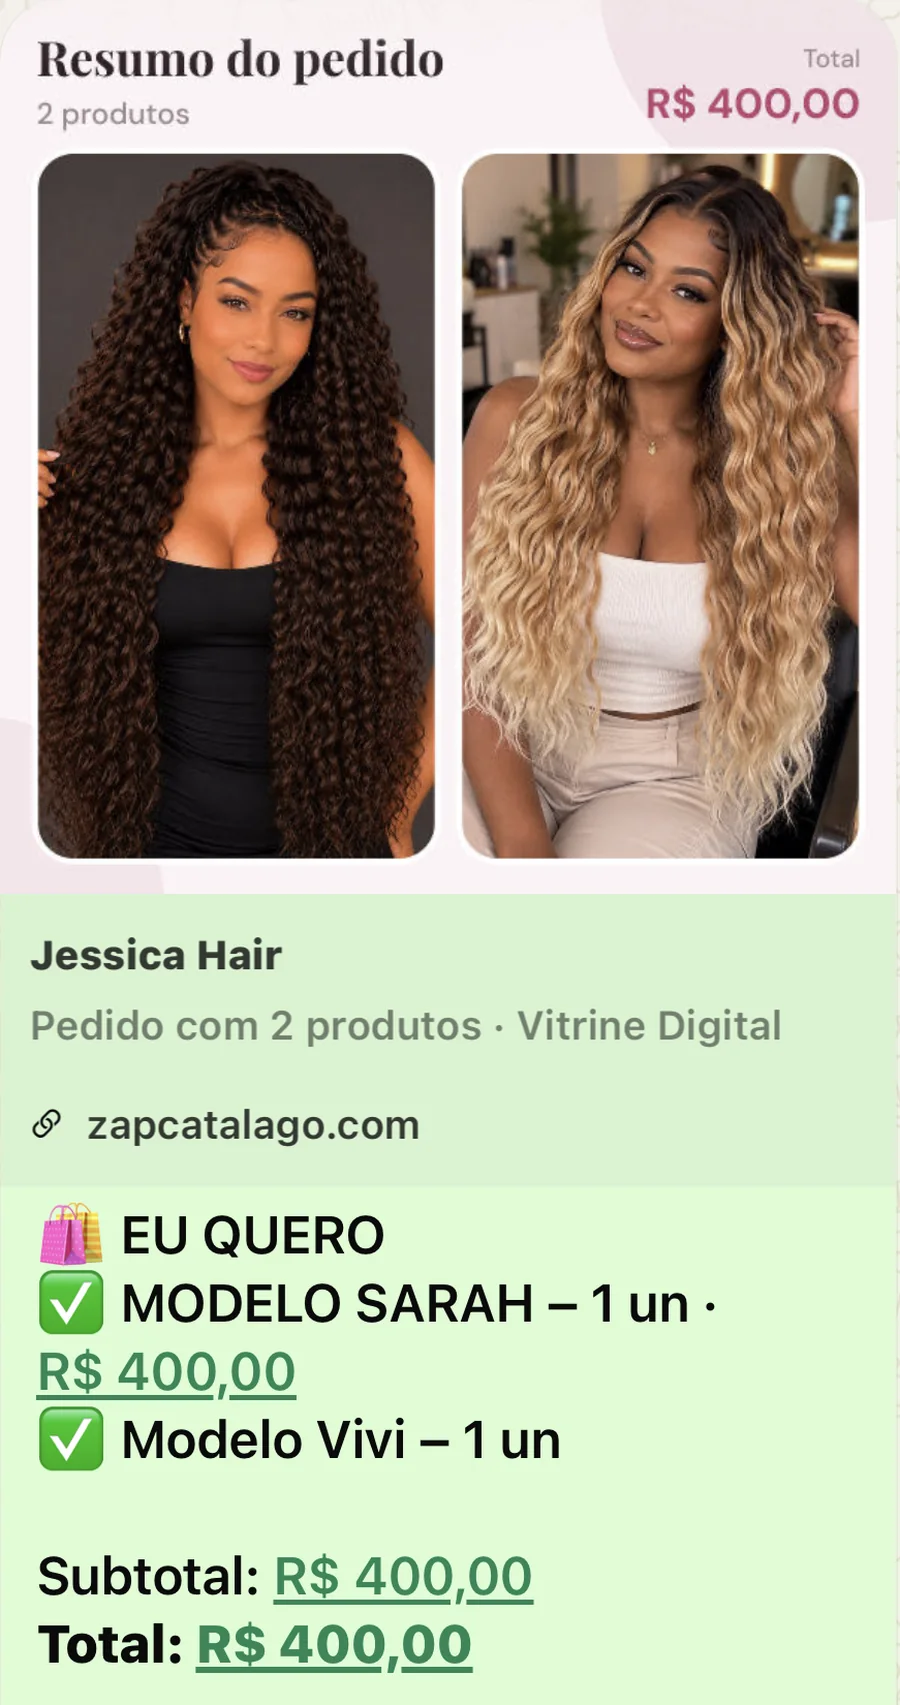
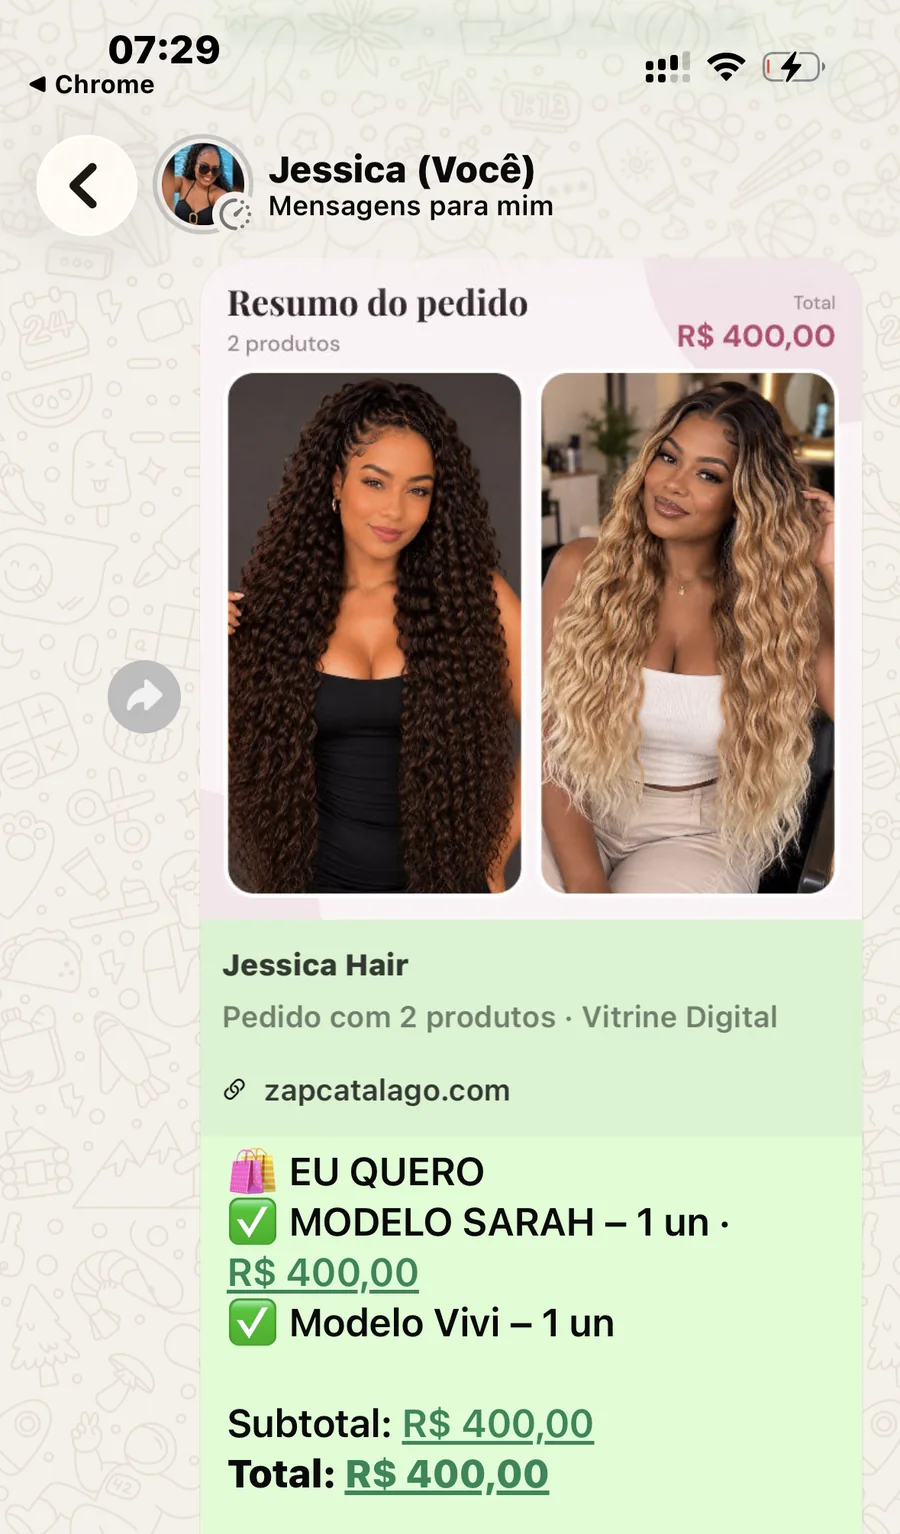
Quiz: antes e depois com os 4 prints inteiros (pedido sem nome e endereço)
Claude-Session: https://claude.ai/code/session_01VYbtS9CpJQzPLhVhEw6fzo

diff --git a/public/quiz.html b/public/quiz.html
@@ -562,11 +562,12 @@ p, li, .pensa p, .sub { text-wrap: pretty; }
     </div>
     <div class="ad-card ad-depois">
       <div class="ad-top"><i>2</i><b>Com vitrine</b><span class="ad-seta" aria-hidden="true">↓</span></div>
-      <img src="/static/exemplo/ad-depois-produtos.webp" width="900" height="1368" alt="Vitrine Jéssica Hair com categorias, produtos, preço e botão EU QUERO" loading="lazy" decoding="async">
+      <img src="/static/exemplo/ad-depois-capa.webp" width="900" height="1951" alt="Capa da vitrine Jéssica Hair no celular" loading="lazy" decoding="async">
+      <img src="/static/exemplo/ad-depois-produtos.webp" width="900" height="1951" alt="Vitrine Jéssica Hair com categorias, produtos, preço e botão EU QUERO" loading="lazy" decoding="async">
     </div>
     <div class="ad-card ad-depois">
       <div class="ad-top"><i>3</i><b>Pedido chega no seu WhatsApp</b><span class="ad-seta" aria-hidden="true">↓</span></div>
-      <img src="/static/exemplo/ad-depois-pedido.webp" width="900" height="1705" alt="Pedido chegando organizado no WhatsApp com produtos e total" loading="lazy" decoding="async">
+      <img src="/static/exemplo/ad-depois-pedido.webp" width="900" height="1534" alt="Pedido chegando organizado no WhatsApp com produtos e total" loading="lazy" decoding="async">
     </div>
     <p class="ad-frase">A mesma loja. <em>Só mudou a forma de mostrar.</em></p>
     <p class="alerta">Cada dia sem catálogo é cliente perguntando preço no direct e desistindo.</p>
